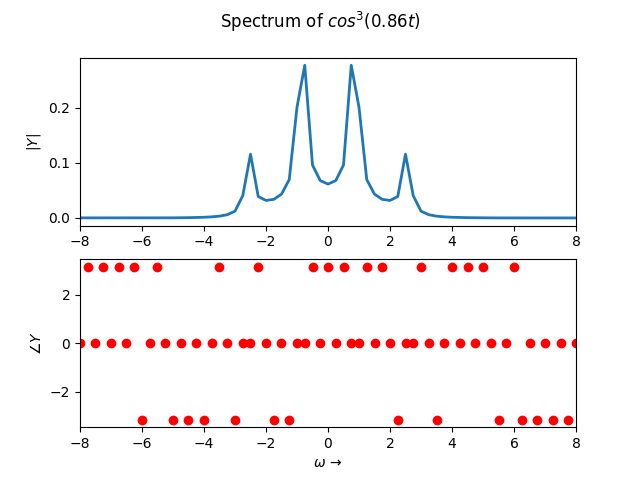
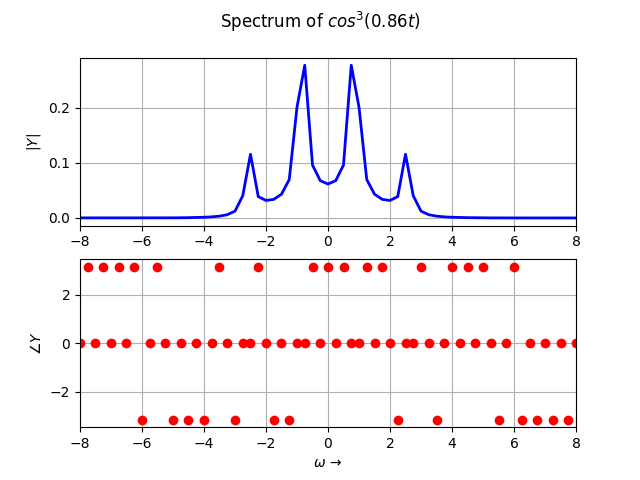
Code fin.

diff --git a/Week 9/code.py b/Week 9/code.py
@@ -13,12 +13,14 @@ import numpy as np
 import numpy.fft as fft
 import matplotlib.pyplot as plt
 from scipy.linalg import lstsq
+from mpl_toolkits.mplot3d import Axes3D
+from matplotlib import cm
 
 # Global Variables
 plotsDir = 'plots/'
 PI = np.pi
 figNum = 0
-showAll = False
+showAll = True
 
 # Functions used
 def hammingWindow(n):
@@ -33,19 +35,34 @@ def hammingWindow(n):
     window = 0.54 + 0.46*np.cos((2*PI*n)/(N-1))
     return fft.fftshift(window)
 
-def plotSpectrum(figTitle, w, Y, xLimit=None, yLimit=None, showFig=False, saveFig=True):
+def plotSignal(t, x, figTitle, style='b-', blockFig=False, showFig=True, saveFig=False):
+    global figNum
+    plt.figure(figNum)
+    plt.title(figTitle)
+    plt.grid()
+    plt.plot(t, x, style)
+    if showFig:
+        plt.show(block=blockFig)
+    if saveFig:
+        plt.savefig(plotsDir + "Fig"+str(figNum)+".png")
+    figNum+=1
+
+
+def plotSpectrum(figTitle, w, Y, magStyle='b-', phaseStyle='ro', xLimit=None, yLimit=None, showFig=False, saveFig=True, blockFig=False):
     global figNum
     plt.figure(figNum)
     plt.suptitle(figTitle)
     plt.subplot(211)
-    plt.plot(w, abs(Y), lw=2)
+    plt.grid()
+    plt.plot(w, abs(Y), magStyle, lw=2)
     plt.ylabel(r"$\|Y\|$")
     if (xLimit):
         plt.xlim(xLimit)
     if (yLimit):
         plt.ylim(yLimit)
     plt.subplot(212)
-    plt.plot(w, np.angle(Y), "ro", lw=2)
+    plt.grid()
+    plt.plot(w, np.angle(Y), phaseStyle, lw=2)
     plt.xlim(xLimit)
     plt.ylabel(r"$\angle Y$")
     plt.xlabel(r"$\omega\ \to$")
@@ -53,9 +70,7 @@ def plotSpectrum(figTitle, w, Y, xLimit=None, yLimit=None, showFig=False, saveFi
     if(saveFig):
         plt.savefig(plotsDir + "Fig"+str(figNum)+".png")
     if(showFig):
-        plt.show()
-    else:
-        plt.show(block=False)
+        plt.show(block=blockFig)
     figNum+=1
 
 # Example 1 - sin(sqrt(2)t)
@@ -70,7 +85,7 @@ y[0] = 0
 y = fft.fftshift(y)
 Y = fft.fftshift(fft.fft(y))/64.0
 w = np.linspace(-PI*fmax, PI*fmax, 65)[:-1]
-plotSpectrum(r"Spectrum of $sin(\sqrt{2}t)$", w, Y, [-10, 10], showFig=showAll)
+plotSpectrum(r"Spectrum of $sin(\sqrt{2}t)$", w, Y, xLimit=[-10, 10], showFig=showAll)
 
     ## Windowing with Hamming Window
 
@@ -83,7 +98,7 @@ y[0] = 0
 y = fft.fftshift(y)
 Y = fft.fftshift(fft.fft(y))/64.0
 w = np.linspace(-PI*fmax, PI*fmax, 65)[:-1]
-plotSpectrum(r"Spectrum of $sin(\sqrt{2}t) * w(t)$", w, Y, [-8, 8], showFig=showAll)
+plotSpectrum(r"Spectrum of $sin(\sqrt{2}t) * w(t)$", w, Y, xLimit=[-8, 8], showFig=showAll)
 
 
 # Question 2 - spectrum of (cos(0.86 t))**3
@@ -98,7 +113,7 @@ y[0] = 0
 y = fft.fftshift(y)
 Y = fft.fftshift(fft.fft(y))/256.0
 w = np.linspace(-PI*fmax, PI*fmax, 257)[:-1]
-plotSpectrum(r"Spectrum of $cos^3(0.86t)$", w, Y, [-8, 8], showFig=showAll)
+plotSpectrum(r"Spectrum of $cos^3(0.86t)$", w, Y, xLimit=[-8, 8], showFig=showAll)
 
     ## Windowing with Hamming Window
 
@@ -111,22 +126,8 @@ y[0] = 0
 y = fft.fftshift(y)
 Y = fft.fftshift(fft.fft(y))/256.0
 w = np.linspace(-PI*fmax, PI*fmax, 257)[:-1]
-plotSpectrum(r"Spectrum of $cos^3(0.86t) * w(t)$", w, Y, [-8, 8], showFig=showAll)
+plotSpectrum(r"Spectrum of $cos^3(0.86t) * w(t)$", w, Y, xLimit=[-8, 8], showFig=showAll)
 
-
-# Question 3 - Estimation of w, d in cos(wt + d)
-
-wo = 1.35
-d = PI/2
-t = np.linspace(-PI, PI, 129)[:-1]
-trueCos = np.cos(wo*t + d)
-fmax = 1.0/(t[1]-t[0])
-n = np.arange(128)
-y = trueCos.copy()*hammingWindow(n)
-y = fft.fftshift(y)
-Y = fft.fftshift(fft.fft(y))/128.0
-w = np.linspace(-PI*fmax, PI*fmax, 129)[:-1]
-plotSpectrum(r"Spectrum of $cos^3(\omega_o t + \delta) \cdot w(t)$", w, Y, [-4, 4], showFig=showAll)
 
 def estimateWandD(w, wo, Y, do):
     wEstimate = np.sum(abs(Y)**2 * abs(w))/np.sum(abs(Y)**2) # weighted average
@@ -142,4 +143,101 @@ def estimateWandD(w, wo, Y, do):
     dEstimate = np.arctan2(-vals[1], vals[0])
     print("do = {:.03f}\t\tdo (Estimated) = {:.03f}".format(do, dEstimate))
 
+
+# Question 3 - Estimation of w, d in cos(wt + d)
+print("Question 3:")
+wo = 1.35
+d = PI/2
+t = np.linspace(-PI, PI, 129)[:-1]
+trueCos = np.cos(wo*t + d)
+fmax = 1.0/(t[1]-t[0])
+n = np.arange(128)
+y = trueCos.copy()*hammingWindow(n)
+y = fft.fftshift(y)
+Y = fft.fftshift(fft.fft(y))/128.0
+w = np.linspace(-PI*fmax, PI*fmax, 129)[:-1]
+plotSpectrum(r"Spectrum of $cos(\omega_o t + \delta) \cdot w(t)$", w, Y, xLimit=[-4, 4], showFig=showAll, saveFig=False)
 estimateWandD(w, wo, Y, d)
+
+print("\nQuestion 4:")
+
+# Question 4 - Estimation of w, d in noisy cos(wt + d)
+
+trueCos = np.cos(wo*t + d)
+noise = 0.1*np.random.randn(128)
+n = np.arange(128)
+y = (trueCos + noise)*hammingWindow(n)
+fmax = 1.0/(t[1]-t[0])
+y = fft.fftshift(y)
+Y = fft.fftshift(fft.fft(y))/128.0
+w = np.linspace(-PI*fmax, PI*fmax, 129)[:-1]
+plotSpectrum(r"Spectrum of $(cos(\omega_o t + \delta) + noise) \cdot w(t)$", w, Y, xLimit=[-4, 4], showFig=showAll, saveFig=False)
+estimateWandD(w, wo, Y, d)
+
+# Question 5 - DFT of chirp
+
+def chirp(t):
+    return np.cos(16*(1.5*t + (t**2)/(2*PI)))
+
+t = np.linspace(-PI, PI, 1025)[:-1]
+x = chirp(t)
+plotSignal(t, x, r"$cos(16(1.5 + \frac{t}{2\pi})t)$")
+fmax = 1.0/(t[1]-t[0])
+X = fft.fftshift(fft.fft(x))/1024.0
+w = np.linspace(-PI*fmax, PI*fmax, 1025)[:-1]
+plotSpectrum(r"DFT of $cos(16(1.5 + \frac{t}{2\pi})t)$", w, X, 'b-', 'r.-', [-75, 75], showFig=showAll, saveFig=True)
+
+n = np.arange(1024)
+x = chirp(t)*hammingWindow(n)
+plotSignal(t, x, r" $cos(16(1.5 + \frac{t}{2\pi})t) \cdot w(t)$")
+X = fft.fftshift(fft.fft(x))/1024.0
+plotSpectrum(r"DFT of $cos(16(1.5 + \frac{t}{2\pi})t) \cdot w(t)$", w, X, 'b-', 'r.-', [-75, 75], showFig=showAll, saveFig=True)
+
+# Question 6 - Time evolution of DFT of chirp signal
+
+def STFT(chirp, t, batchSize=64):
+    '''
+        returns 2d array, ready for plotting
+    '''
+    t_batch = np.split(t, 1024//batchSize)
+    x_batch = np.split(x, 1024//batchSize)
+    X = np.zeros((1024//batchSize, batchSize), dtype=complex)
+    for i in range(1024//batchSize):
+        X[i] = fft.fftshift(fft.fft(x_batch[i]))/batchSize
+    return X
+
+def plot3DSTFT(t, w, X, colorMap=cm.viridis, showFig=showAll, saveFig=True, blockFig=False):
+    global figNum
+
+    t = t[::64]
+    w = np.linspace(-fmax*PI,fmax*PI,65)[:-1]
+    t, w = np.meshgrid(t, w)
+
+    fig = plt.figure(figNum)
+    ax = fig.add_subplot(211, projection='3d')
+    surf = ax.plot_surface(w, t, abs(X).T, cmap=colorMap)
+    fig.colorbar(surf)
+    plt.ylabel(r"Frequency $\to$")
+    plt.xlabel(r"Time $\to$")
+    plt.title(r"Magnitude $\|Y\|$")
+
+    ax = fig.add_subplot(212, projection='3d')
+    surf = ax.plot_surface(w, t, np.angle(X).T, cmap=colorMap)
+    fig.colorbar(surf)
+    plt.ylabel(r"Frequency $\to$")
+    plt.xlabel(r"Time $\to$")
+    plt.title(r"Angle $\angle Y$")
+    if saveFig:
+        plt.savefig(plotsDir+"Fig"+str(figNum)+".png")
+    if showFig:
+        plt.show(block=blockFig)
+
+    figNum+=1
+
+x = chirp(t)
+X = STFT(x, t)
+plot3DSTFT(t, w, X, colorMap=cm.plasma)
+
+x = chirp(t)*hammingWindow(np.arange(1024))
+X = STFT(x, t)
+plot3DSTFT(t, w, X, blockFig=True)
